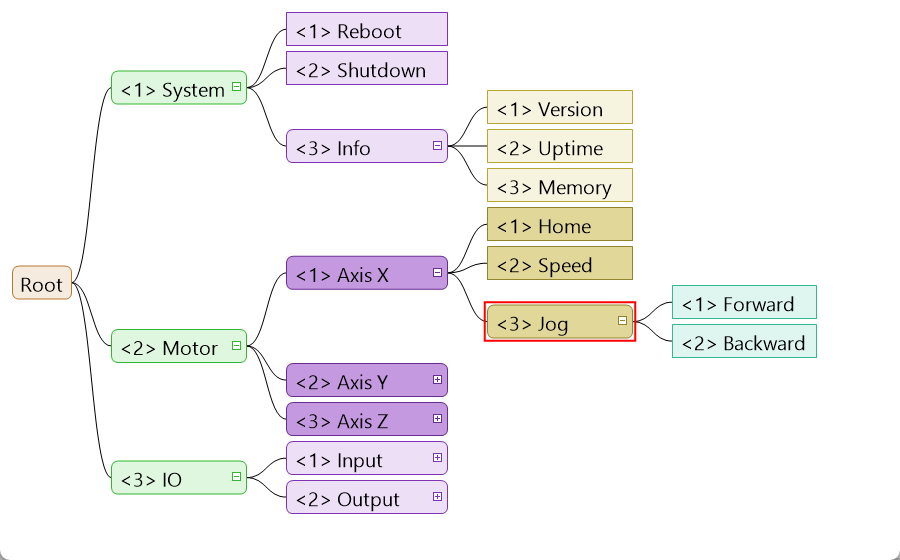
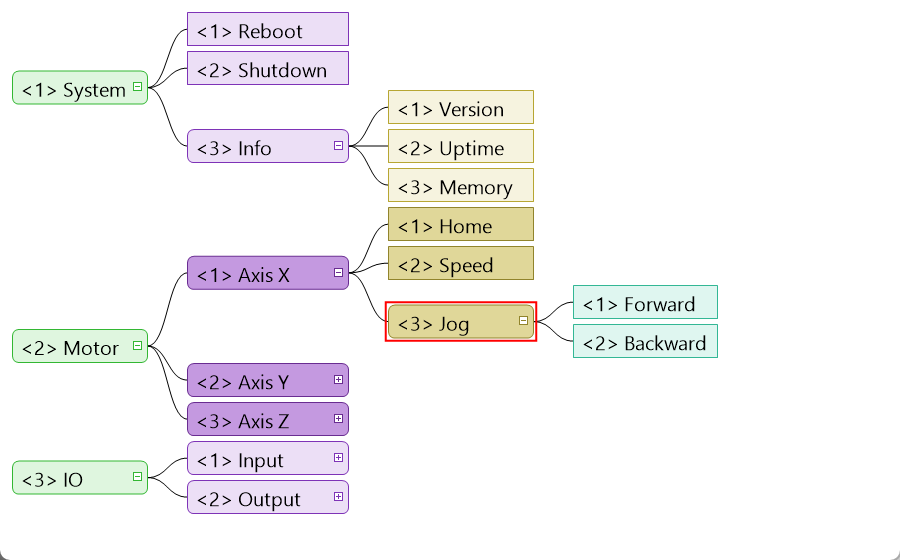
Stop drawing a Root box in the diagram
The whole-tree diagram used to add an unnamed Root box when the tree had
several top-level nodes. It also added one when a sibling was inserted
next to a single top-level node, which pushed the whole diagram one
column to the right during the edit.

TreeDrawer now lays out a forest. BuildLayout returns the top-level
nodes, and they all start in the leftmost column. Collapse, Flatten and
Arrange take that list. Root is never drawn, so the Root label, its
check styling and its expander rule are gone.

In Hidden mode with no top-level node checked, inserting at the top
level now shows the placeholder instead of a blank image. This matches
the behavior when any top-level node is checked.

Update the guide, the XML docs and the README screenshots.

Changed region(s): [[0.0, 0.0, 0.9333, 0.9411], [0.0, 0.4554, 0.0933, 0.5464], [0.9956, 0.9714, 1.0, 1.0]]

diff --git a/CascadeControl/Views/Diagram/TreeDrawer.cs b/CascadeControl/Views/Diagram/TreeDrawer.cs
@@ -16,7 +16,7 @@ namespace CascadeControl.Views.Diagram
     /// </summary>
     /// <remarks>
     /// 有子節點的畫圓角長方形，方塊內的最右邊畫一個正方形的展開鈕（該層因此加寬）：收合時是 [+]、子節點不畫，展開時是 [-]；
-    /// 葉節點畫直角長方形。第一層有多個節點時畫出的 Root 永遠展開，不畫展開鈕。同一層的方塊等寬，寬度依字型量出該層最長的編號與名稱決定，且不小於高度；
+    /// 葉節點畫直角長方形。畫整棵樹時第一層的節點各自從最左欄開始，不另外畫 Root 把它們接起來。同一層的方塊等寬，寬度依字型量出該層最長的編號與名稱決定，且不小於高度；
     /// 同一層的名稱從同一個位置開始，編號位數不同也對得齊。
     /// 圖照實際大小畫，不會為了塞進控制項而縮小；放不下時由外層的捲動容器處理。
     /// <para>
@@ -43,8 +43,6 @@ namespace CascadeControl.Views.Diagram
 
         // GDI+ 的 Bitmap 單邊太大會配置失敗；超過時整張等比例縮小。
         private const float MAX_BITMAP_SIDE = 16000f;
-
-        private const string ROOT_LABEL = "Root";
 
         private static readonly Color DIMMED = Color.FromArgb(170, 170, 170);
         private static readonly Color DIMMED_LINE = Color.FromArgb(214, 214, 214);
@@ -136,9 +134,6 @@ namespace CascadeControl.Views.Diagram
             public int Level { get; set; }
             public List<LayoutNode> Children { get; } = new List<LayoutNode>();
 
-            // 沒有名稱的 Root：只在第一層有多個節點時畫出來，不寫編號。
-            public bool IsVirtualRoot { get; set; }
-
             // 插入或建立子節點時暫時佔位的空白方塊：Source 是不在樹裡的節點，不寫編號與名稱。
             public bool IsPlaceholder { get; set; }
 
@@ -212,7 +207,7 @@ namespace CascadeControl.Views.Diagram
         /// 把選單樹畫成 <see cref="Bitmap"/>，大小依內容決定。
         /// </summary>
         /// <param name="tree">
-        /// 要畫的樹；null、空樹，或 <see cref="CascadeDiagramUncheckedDisplay.Hidden"/> 下起點沒有勾選時，回傳 1×1 的空白圖。
+        /// 要畫的樹；null、空樹，或 <see cref="CascadeDiagramUncheckedDisplay.Hidden"/> 下沒有節點可畫時，回傳 1×1 的空白圖。
         /// </param>
         /// <param name="font">文字的字型；null 時使用系統預設字型。</param>
         /// <param name="isChecked">判斷節點是否勾選；null 時不畫勾選狀態，<paramref name="uncheckedDisplay"/> 也不使用。</param>
@@ -286,15 +281,18 @@ namespace CascadeControl.Views.Diagram
                 Preview = preview,
             };
 
-            var root = tree == null || tree.IsEmpty ? null : BuildLayout(tree, scope, options);
-            if (root == null) return new TreeImage(CreateBlank(), new TreeImageNode[0]);
+            var roots = tree == null || tree.IsEmpty ? new List<LayoutNode>() : BuildLayout(tree, scope, options);
+            if (roots.Count == 0) return new TreeImage(CreateBlank(), new TreeImageNode[0]);
 
             // 預覽時新的父節點一定展開，才看得到接上去的節點。
-            if (isExpanded != null) Collapse(root, preview == null ? isExpanded : node => ReferenceEquals(node, preview.Parent) || isExpanded(node));
+            if (isExpanded != null)
+            {
+                foreach (var root in roots) Collapse(root, preview == null ? isExpanded : node => ReferenceEquals(node, preview.Parent) || isExpanded(node));
+            }
 
             var showChecks = isChecked != null;
 
-            var nodes = Flatten(root);
+            var nodes = Flatten(roots);
             AssignColorGroups(nodes);
 
             using (var format = CreateTextFormat())
@@ -303,7 +301,7 @@ namespace CascadeControl.Views.Diagram
                 using (var scratch = new Bitmap(1, 1))
                 using (var g = Graphics.FromImage(scratch))
                 {
-                    size = Arrange(g, font, format, root, nodes);
+                    size = Arrange(g, font, format, roots, nodes);
                 }
 
                 var scale = Math.Min(1f, Math.Min(MAX_BITMAP_SIDE / size.Width, MAX_BITMAP_SIDE / size.Height));
@@ -324,9 +322,7 @@ namespace CascadeControl.Views.Diagram
                     if (nodes.Any(node => node.IsGhost)) DrawGhosts(g, bitmap.Size, scale, font, format, nodes, showChecks);
                 }
 
-                // 位置跟著縮小的比例換算成圖上的像素；Root 不對應任何節點，不放進去。
                 var hitNodes = nodes
-                    .Where(node => !node.IsVirtualRoot)
                     .Select(node => new TreeImageNode(
                         node.Source,
                         Scale(node.Bounds, scale),
@@ -362,36 +358,26 @@ namespace CascadeControl.Views.Diagram
         #region 建立要畫的節點
 
         /// <summary>
-        /// 決定起點並建立要畫的節點；沒有東西可畫時回傳 null。
+        /// 決定起點並建立要畫的節點，回傳最左欄的節點；沒有東西可畫時回傳空的清單。
         /// </summary>
         /// <remarks>
         /// <see cref="CascadeDiagramDrawScope.SelectedSubtree"/> 有選取時從選取的節點開始，它就是圖的起點，不另外框起來。
-        /// 其他情況畫整棵樹：第一層只有一個節點時直接從它開始；有多個時以沒有名稱的 Root 當起點，把它們接起來。
         /// </remarks>
-        private static LayoutNode BuildLayout(MenuTree tree, CascadeDiagramDrawScope scope, BuildOptions options)
+        private static List<LayoutNode> BuildLayout(MenuTree tree, CascadeDiagramDrawScope scope, BuildOptions options)
         {
             var selectedNode = options.SelectedNode;
             if (scope == CascadeDiagramDrawScope.SelectedSubtree && selectedNode != null)
             {
                 // 起點就是選取的節點，不另外框起來。
                 options.SelectedNode = null;
-                return BuildNode(selectedNode, 0, selectedNode.Depth, false, false, options);
+                var start = BuildNode(selectedNode, 0, selectedNode.Depth, false, false, options);
+                return start == null ? new List<LayoutNode>() : new List<LayoutNode> { start };
             }
 
-            // 佔位方塊在第一層時要有 Root 才接得上。預覽移動不改第一層：移走的節點留在原處，目標也不會是 Root。
-            var placeholderAtTop = options.Placeholder != null && ReferenceEquals(options.Placeholder.Parent, tree.Root);
-            if (tree.TopLevelNodes.Count == 1 && !placeholderAtTop)
-            {
-                var top = tree.TopLevelNodes[0];
-                return BuildNode(top, 0, top.Depth, false, false, options);
-            }
-
-            var root = new LayoutNode { Source = tree.Root, Level = 0, Depth = 0, IsVirtualRoot = true };
-            AddChildren(root, options);
-
-            // Root 不在勾選的範圍內：底下有勾選就當成勾選，全部都全勾才算全勾。
-            root.IsChecked = options.IsChecked == null || tree.TopLevelNodes.Any(options.IsChecked);
-            return root.IsChecked || !options.HideUnchecked ? root : null;
+            // 只用來收集第一層節點（連同第一層的佔位方塊與預覽），本身不畫。
+            var top = new LayoutNode { Source = tree.Root, Level = -1, Depth = 0 };
+            AddChildren(top, options);
+            return top.Children;
         }
 
         // 回傳 null 表示這個節點不畫（隱藏沒勾的節點時）。
@@ -510,11 +496,11 @@ namespace CascadeControl.Views.Diagram
         }
 
         // 前序走訪，父節點在子節點之前。
-        private static List<LayoutNode> Flatten(LayoutNode root)
+        private static List<LayoutNode> Flatten(List<LayoutNode> roots)
         {
             var nodes = new List<LayoutNode>();
             var stack = new Stack<LayoutNode>();
-            stack.Push(root);
+            for (var i = roots.Count - 1; i >= 0; i--) stack.Push(roots[i]);
 
             while (stack.Count > 0)
             {
@@ -531,7 +517,7 @@ namespace CascadeControl.Views.Diagram
         /// </summary>
         /// <remarks>
         /// <paramref name="nodes"/> 是前序走訪，同一欄的父節點由上往下出現，所以它們的子節點組在下一欄也是由上往下。
-        /// 起點自成一組，用 A 色。分組看的是畫出來的節點，隱藏沒勾的節點後，相鄰兩組照樣分得出來。
+        /// 最左欄的節點算一組，用 A 色。分組看的是畫出來的節點，隱藏沒勾的節點後，相鄰兩組照樣分得出來。
         /// </remarks>
         private static void AssignColorGroups(List<LayoutNode> nodes)
         {
@@ -558,7 +544,7 @@ namespace CascadeControl.Views.Diagram
         /// 垂直方向：每個沒有子節點可畫的方塊各佔一列，父節點置中對齊第一個與最後一個子節點，所以不會重疊。
         /// 水平方向：一層一欄，欄寬是該層最寬的編號加上最寬的名稱再加內距，且不小於方塊高度。
         /// </remarks>
-        private static SizeF Arrange(Graphics g, Font font, StringFormat format, LayoutNode root, List<LayoutNode> nodes)
+        private static SizeF Arrange(Graphics g, Font font, StringFormat format, List<LayoutNode> roots, List<LayoutNode> nodes)
         {
             var lineHeight = (float)Math.Ceiling(font.GetHeight(g));
             var boxHeight = lineHeight + PADDING_Y * 2f;
@@ -590,7 +576,6 @@ namespace CascadeControl.Views.Diagram
             var x = MARGIN;
             for (var level = 0; level < levelCount; level++)
             {
-                // 沒有編號的那一層（Root）不留編號的位置。
                 nameOffsets[level] = PADDING_X + (numberWidths[level] > 0f ? numberWidths[level] + NUMBER_GAP : 0f);
                 var right = hasExpanders[level] ? EXPANDER_GAP + EXPANDER_SIZE + EXPANDER_RIGHT : PADDING_X;
                 levelWidths[level] = Math.Max(boxHeight, nameOffsets[level] + nameWidths[level] + right);
@@ -599,7 +584,7 @@ namespace CascadeControl.Views.Diagram
             }
 
             var rows = 0;
-            AssignRows(root, ref rows);
+            foreach (var root in roots) AssignRows(root, ref rows);
 
             var rowPitch = boxHeight + ROW_GAP;
             foreach (var node in nodes)
@@ -633,10 +618,10 @@ namespace CascadeControl.Views.Diagram
             return string.IsNullOrEmpty(text) ? 0f : g.MeasureString(text, font, int.MaxValue, format).Width;
         }
 
-        private static string NameText(LayoutNode node) => node.IsVirtualRoot ? ROOT_LABEL : node.IsPlaceholder ? string.Empty : node.Source.Name;
+        private static string NameText(LayoutNode node) => node.IsPlaceholder ? string.Empty : node.Source.Name;
 
         private static string NumberText(LayoutNode node) =>
-            node.IsVirtualRoot || node.IsPlaceholder ? string.Empty : $"<{(node.Number > 0 ? node.Number : node.Source.SiblingNumber)}>";
+            node.IsPlaceholder ? string.Empty : $"<{(node.Number > 0 ? node.Number : node.Source.SiblingNumber)}>";
 
         #endregion 排版
 
@@ -743,12 +728,8 @@ namespace CascadeControl.Views.Diagram
                     g.DrawRectangle(borderPen, bounds.X, bounds.Y, bounds.Width, bounds.Height);
                 }
 
-                // 編號和名稱在同一行，垂直置中；Root 沒有編號，只畫名稱。
                 var numberLeft = bounds.Left + PADDING_X;
-                if (!node.IsVirtualRoot)
-                {
-                    g.DrawString(NumberText(node), font, foreBrush, new RectangleF(numberLeft, bounds.Top, node.NameLeft - numberLeft, bounds.Height), format);
-                }
+                g.DrawString(NumberText(node), font, foreBrush, new RectangleF(numberLeft, bounds.Top, node.NameLeft - numberLeft, bounds.Height), format);
 
                 var nameRight = HasExpander(node) ? ExpanderBounds(node).Left - EXPANDER_GAP : bounds.Right - PADDING_X;
                 g.DrawString(NameText(node), font, foreBrush, new RectangleF(node.NameLeft, bounds.Top, nameRight - node.NameLeft, bounds.Height), format);
@@ -841,8 +822,7 @@ namespace CascadeControl.Views.Diagram
         }
 
         // 和圓角一樣依原樹決定：隱藏沒勾的節點時，子節點全被濾掉的節點仍然有展開鈕。
-        // Root 不對應真正的節點，永遠展開，不畫展開鈕。
-        private static bool HasExpander(LayoutNode node) => !node.IsVirtualRoot && node.Source.Children.Count > 0;
+        private static bool HasExpander(LayoutNode node) => node.Source.Children.Count > 0;
 
         // [+] 的位置：方塊內、離右緣 EXPANDER_RIGHT，垂直置中。
         private static RectangleF ExpanderBounds(LayoutNode node)

diff --git a/CascadeControl/Views/Diagram/CascadeDiagramView.cs b/CascadeControl/Views/Diagram/CascadeDiagramView.cs
@@ -302,7 +302,7 @@ namespace CascadeControl.Views.Diagram
         public event EventHandler<CascadeNodeEventArgs> SelectedPathChanged;
 
         /// <summary>
-        /// 用滑鼠點了圖上的某個節點之後觸發（左鍵、右鍵都會）；點在空白處或 Root 上、Ctrl+點選（多選）與框選不會觸發。
+        /// 用滑鼠點了圖上的某個節點之後觸發（左鍵、右鍵都會）；點在空白處、Ctrl+點選（多選）與框選不會觸發。
         /// </summary>
         [Category("Cascade")]
         public event EventHandler<CascadeNodeMouseEventArgs> NodeMouseClick;

diff --git a/CascadeControl/Views/Diagram/TreeImage.cs b/CascadeControl/Views/Diagram/TreeImage.cs
@@ -10,7 +10,6 @@ namespace CascadeControl.Views.Diagram
     /// </summary>
     /// <remarks>
     /// 位置以 <see cref="Image"/> 的像素為單位；圖太大被等比例縮小時，位置也跟著縮小。
-    /// 整棵樹第一層有多個節點時畫出的 Root 不屬於任何 <see cref="MenuNode"/>，不在 <see cref="Nodes"/> 裡。
     /// </remarks>
     public sealed class TreeImage : IDisposable
     {

diff --git a/CascadeControlTests/Views/Diagram/CascadeDiagramViewEditingTests.cs b/CascadeControlTests/Views/Diagram/CascadeDiagramViewEditingTests.cs
@@ -460,7 +460,6 @@ namespace CascadeControlTests.Views.Diagram
                 f.View.EndEdit(commit: false);
             }
 
-            // 第一層只有一個節點時圖從它開始畫；插在它旁邊要先接上 Root。
             using (var view = new CascadeDiagramView { ReadOnly = false })
             {
                 var tree = new MenuTree();

diff --git a/docs/guide.md b/docs/guide.md
@@ -603,7 +603,7 @@ standalone.SetTree(menu);
 | 拖曳中按 Esc，或在空白處、被移動的節點上放開 | 取消，什麼都不改 |
 | 按住節點沒拖曳就放開 | 一般點選 |
 
-移過去的節點有勾選時，目標與它的祖先跟著補勾。第一層（Root）不能當目標。
+移過去的節點有勾選時，目標與它的祖先跟著補勾。不能把節點移到第一層。
 
 **`CascadeState` / `CascadeCheckableState`**（`CascadeControl.State`，不相依 WinForms）
 
